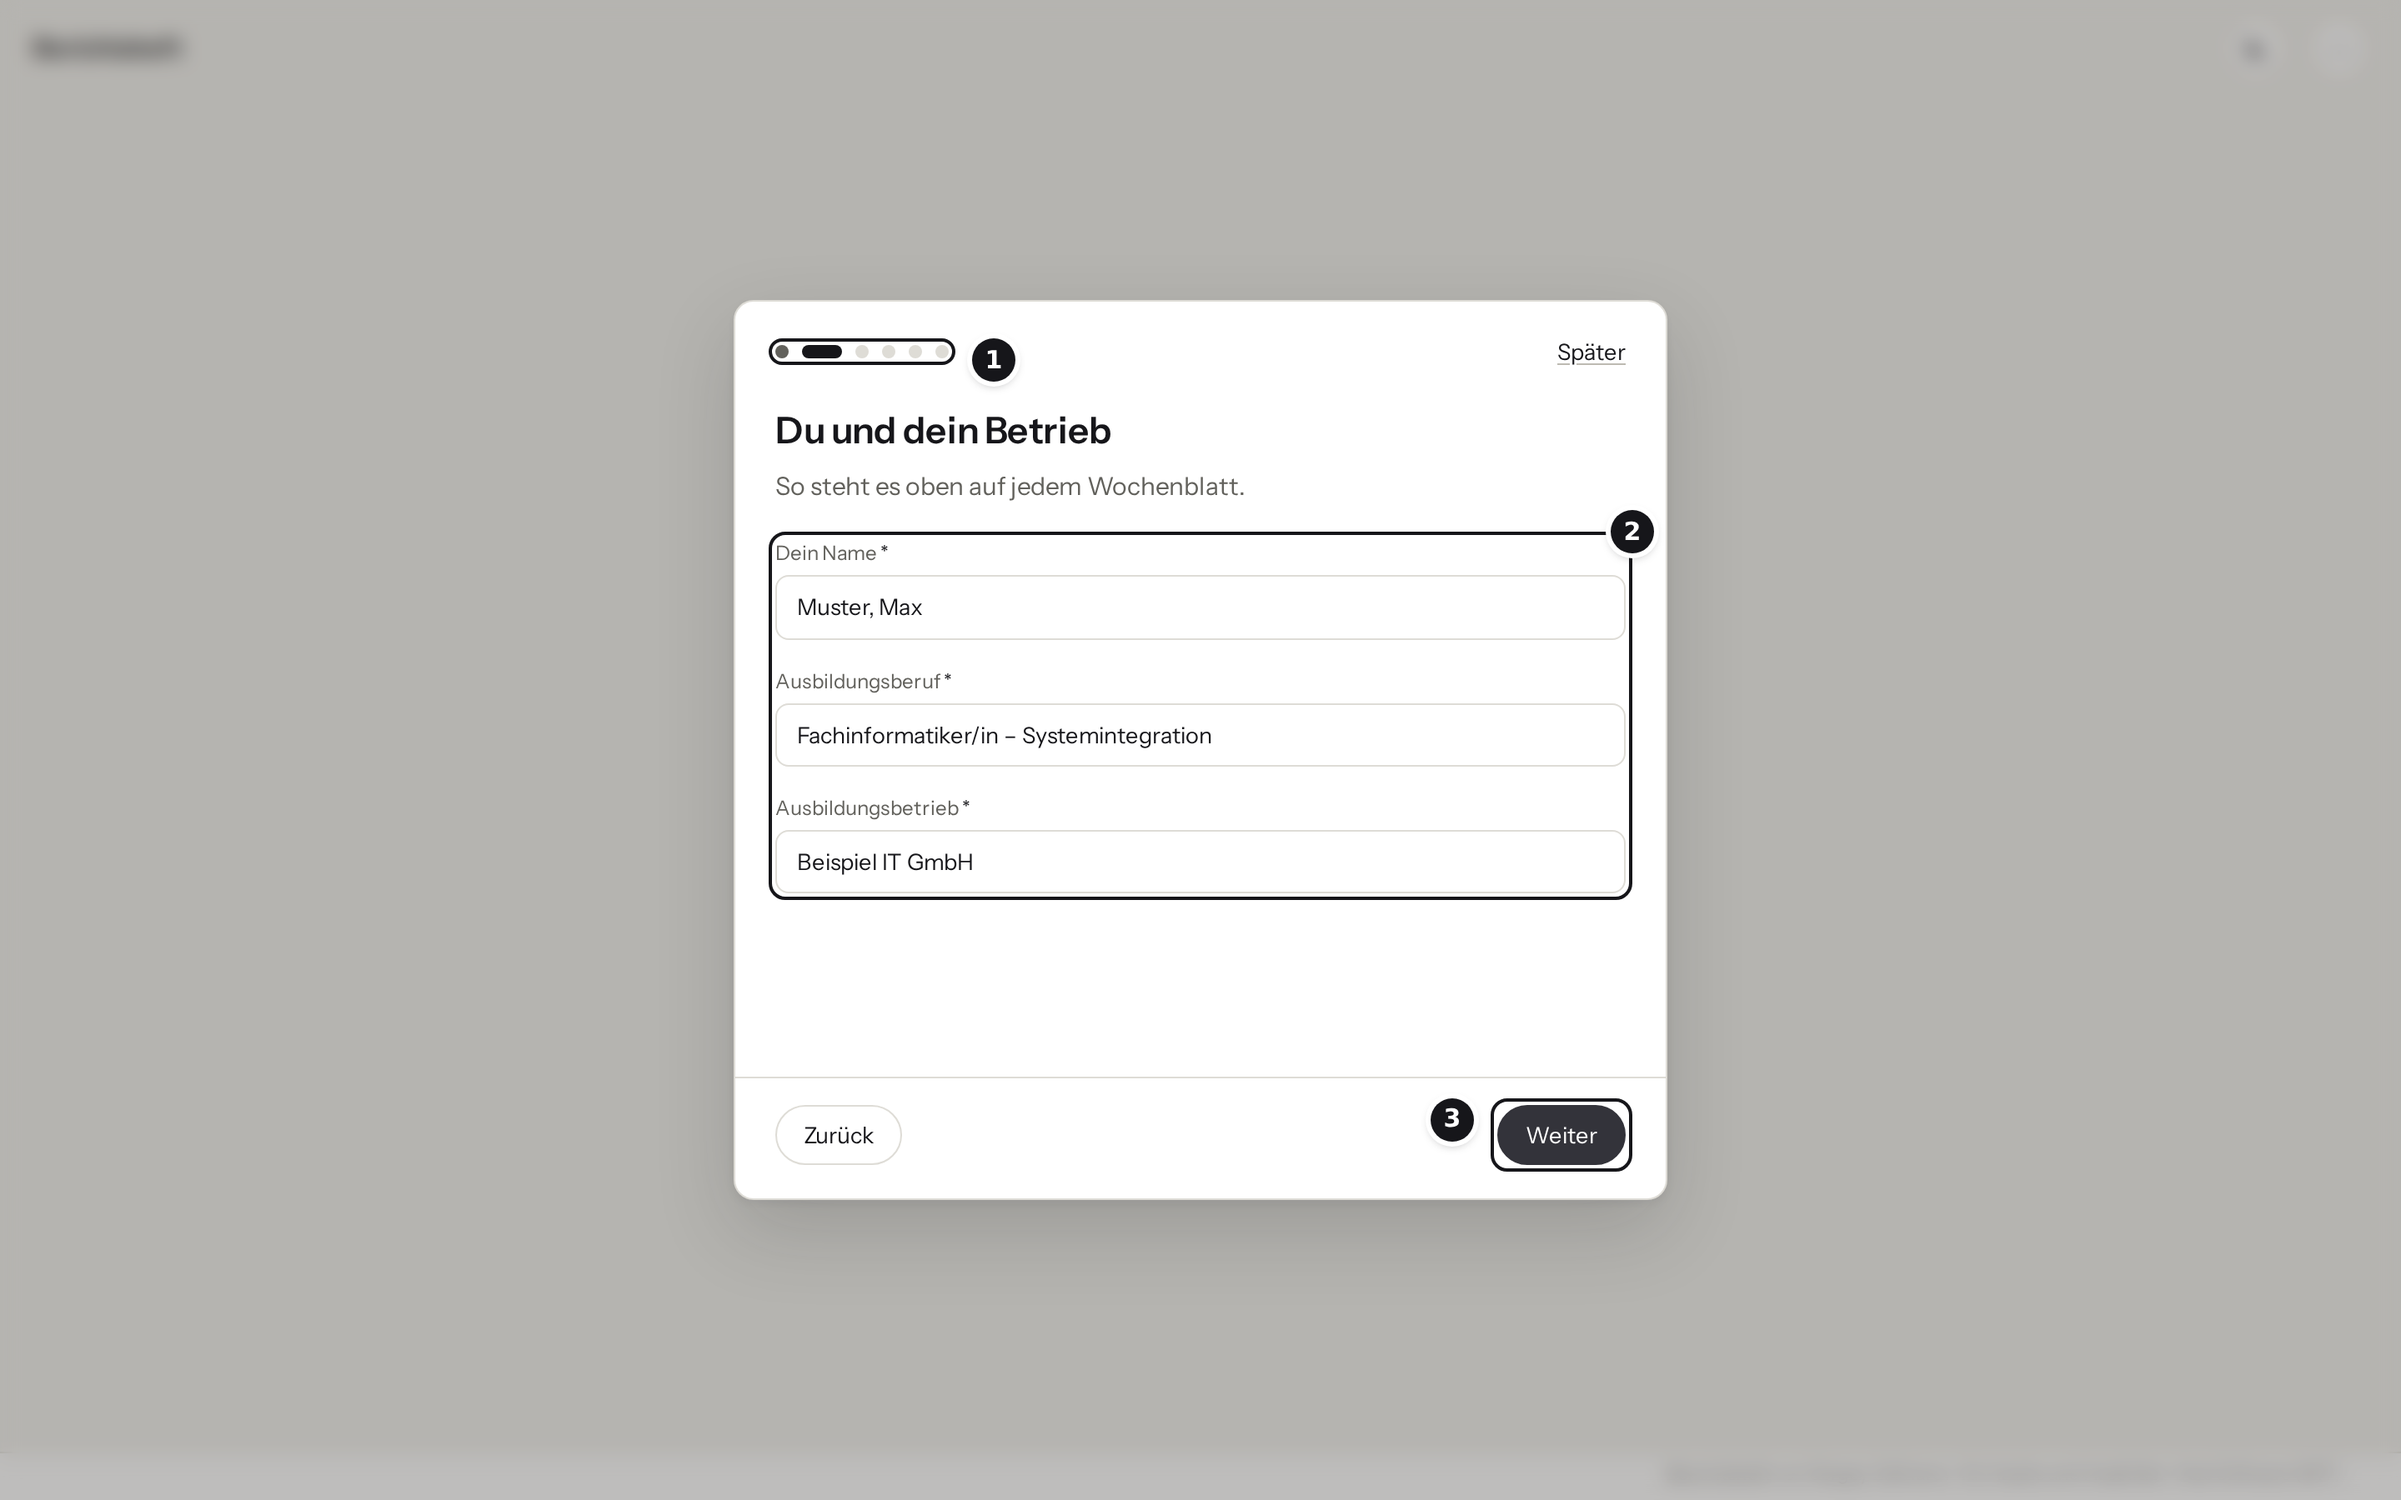
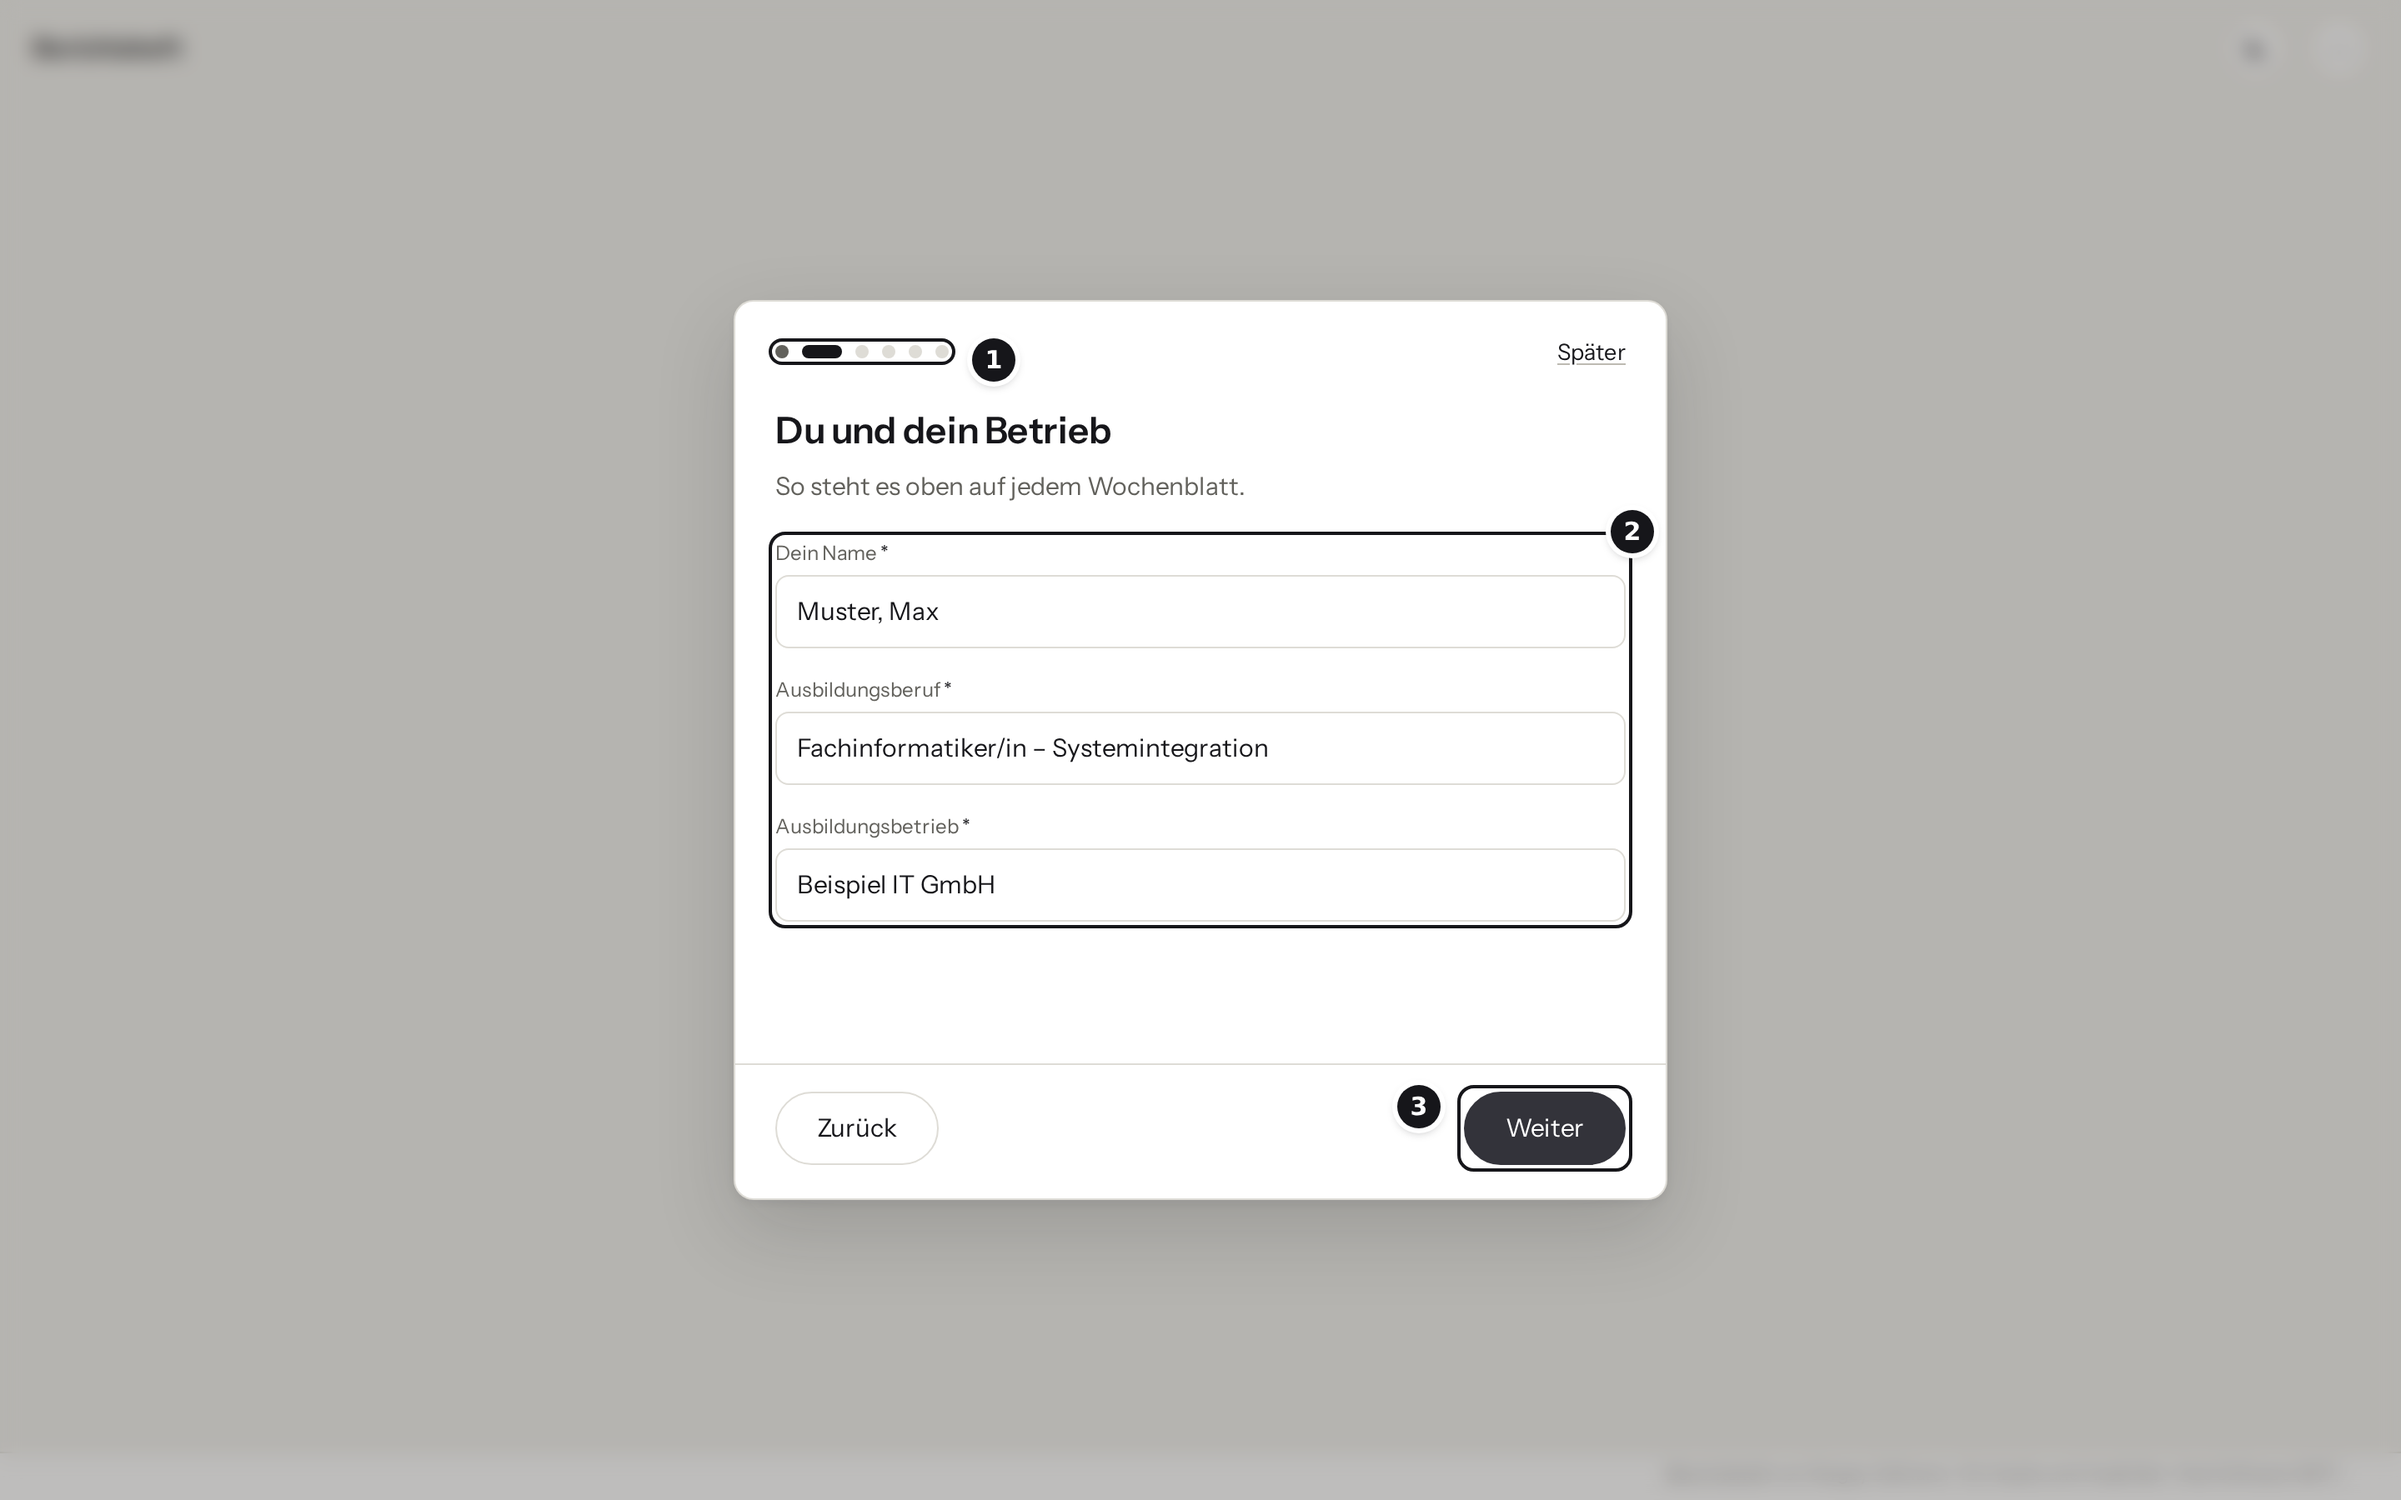
Fenster einheitlich: × oben rechts, Knöpfe unten rechts, größere Einrichtung
- Jedes Fenster hat im Kopf Titel links und × rechts. Die Textknöpfe „Schließen“ (Woche
  wählen, Übersicht, Gruppe verwalten, Kalender des Ausbilders) werden zum ×; Zuordnung,
  Rückfrage, Prüfung vor dem Export und der Kalender für Zeiträume bekommen eins dazu.
  Ein Handler in bedienung.js schließt jedes <dialog> wie Escape; was dabei geschehen
  muss, hängt wie bisher am close-Ereignis. Nur „Bitte anmelden“ bleibt ohne ×.
- Im Fuß stehen die Knöpfe rechts, die Hauptaktion ganz außen, ein Hinweis links davon.
- Dialogtitel 18 px, Felder in Fenstern einheitlich 40 px hoch (Datum und Auswahl
  brachten eigene Höhen mit).
- Einrichtung: Felder und Knöpfe 44 px und 15 px Schrift; Willkommen und Abschluss stehen
  mittig. Ohne Eingabefeld bekommt die Überschrift des Schritts den Fokus, statt „Später“
  mit Fokusrahmen.

Changed region(s): [[0.3125, 0.4044, 0.6875, 0.6222], [0.5625, 0.7156, 0.6875, 0.7778], [0.3438, 0.7156, 0.375, 0.7778]]

diff --git a/src/css/dialoge.css b/src/css/dialoge.css
@@ -137,7 +137,9 @@
 .blattleiste button.rot[aria-selected="true"] { background: var(--acht); color: #fff; }
 
 /* Schließen als Kreuz oben; „Fertig“ unten ist der eine Knopf, gespeichert wird beim Tippen. */
-.dlg-x { width: 32px; height: 32px; font-size: var(--schrift-titel); line-height: 1; }
+/* Das × steht in jedem Fenster oben rechts an derselben Stelle (bedienung.js schließt damit). */
+.dlg-x { width: 32px; height: 32px; margin-left: auto; font-size: var(--schrift-titel); line-height: 1; color: var(--schiefer); }
+.dlg-x:hover:not(:disabled) { color: var(--text); }
 .blattvorwort { margin: 0 0 var(--luft-4); font-size: var(--schrift-klein); line-height: 1.5; color: var(--schiefer); }
 /* Zwischenüberschrift in einem Reiter. */
 .felder .zwischentitel {
@@ -493,7 +495,11 @@
 }
 .er-punkte li.war { background: var(--schiefer); }
 .er-punkte li.jetzt { width: 24px; background: var(--text); }
-.er-leib { flex: 1 1 auto; min-height: 0; overflow-y: auto; padding: var(--luft-6) var(--luft-6) var(--luft-2); }
+.er-leib { flex: 1 1 auto; min-height: 0; overflow-y: auto; padding: var(--luft-6) var(--luft-6) var(--luft-2); display: flex; flex-direction: column; }
+/* Willkommen und Abschluss haben wenig Inhalt: mittig statt oben mit leerem Rest darunter. */
+.er-schritt[data-schritt="start"], .er-schritt[data-schritt="los"] { margin-block: auto; }
+/* Den Fokus bekommt die Überschrift nur für Vorleser (einrichtung.js), sichtbar ist er nicht. */
+.er-schritt h2:focus { outline: none; }
 .er-schritt h2 { margin: 0 0 var(--luft-2); font-size: var(--schrift-kopf); line-height: 1.25; font-weight: 600; letter-spacing: var(--sperrung-eng); }
 .er-marke {
   margin: 0 0 var(--luft-3); font-size: var(--schrift-fein); font-weight: 600; letter-spacing: var(--sperrung);
@@ -501,7 +507,14 @@
 }
 .er-text { margin: 0 0 var(--luft-5); font-size: var(--schrift-gross); line-height: 1.5; color: var(--schiefer); }
 .er-anders { margin: var(--luft-7) 0 0; font-size: var(--schrift-text); color: var(--schiefer); }
-.er-felder { gap: var(--luft-4) var(--luft-4); }
+.er-felder { gap: var(--luft-4); }
+/* Größer als in „Deine Daten“: Die Einrichtung ist das Erste, was man sieht, und hat je Schritt nur
+   wenige Felder. Knöpfe so hoch wie die Felder. */
+.er-felder input, .er-felder select { min-height: 44px; font-size: var(--schrift-gross); }
+.er-fuss .knopf {
+  display: inline-flex; align-items: center; min-height: 44px; padding: 0 var(--luft-6);
+  font-size: var(--schrift-gross);
+}
 .er-felder input.fehlt, .er-felder select.fehlt { border-color: var(--acht); box-shadow: 0 0 0 3px var(--acht-hell); }
 .er-jahr { margin: var(--luft-3) 0 0; min-height: 1.4em; font-size: var(--schrift-text); color: var(--gut); }
 .er-still { margin: var(--luft-4) 0 0; font-size: var(--schrift-klein); color: var(--schiefer); }

diff --git a/src/index.html b/src/index.html
@@ -100,7 +100,7 @@
 <div class="wpopover" id="dlg-wochen" hidden role="dialog" aria-labelledby="wtitel">
   <div class="dkopf">
     <h2 id="wtitel">Woche wählen</h2>
-    <button type="button" class="knopf" id="w-zu">Schließen</button>
+    <button type="button" class="rundknopf dlg-x" id="w-zu" aria-label="Schließen">×</button>
   </div>
   <div class="dkoerper">
     <div class="monatszeile">
@@ -445,6 +445,7 @@
 <dialog id="dlg-zuordnung">
   <div class="dkopf">
     <h2>Spalten zuordnen</h2>
+    <button type="button" class="rundknopf dlg-x" aria-label="Abbrechen">×</button>
   </div>
   <div class="dkoerper">
     <p class="pruef-vorwort" id="zu-vorwort"></p>
@@ -476,7 +477,6 @@
     <p class="pruef-vorwort" id="anmelden-text"></p>
   </div>
   <div class="dfuss">
-    <span></span>
     <a class="knopf voll" id="anmelden-los" href="anmeldung">Anmelden</a>
   </div>
 </dialog>
@@ -485,6 +485,7 @@
 <dialog id="dlg-frage">
   <div class="dkopf">
     <h2 id="frage-titel"></h2>
+    <button type="button" class="rundknopf dlg-x" aria-label="Abbrechen">×</button>
   </div>
   <div class="dkoerper">
     <p class="pruef-vorwort" id="frage-text"></p>
@@ -499,6 +500,7 @@
 <dialog id="dlg-pruefung">
   <div class="dkopf">
     <h2 id="pruef-titel">Vor dem Export</h2>
+    <button type="button" class="rundknopf dlg-x" aria-label="Zurück">×</button>
   </div>
   <div class="dkoerper">
     <p class="pruef-vorwort" id="pruef-vorwort"></p>
@@ -514,7 +516,7 @@
 <dialog id="dlg-uebersicht" aria-labelledby="ueb-titel">
   <div class="dkopf">
     <h2 id="ueb-titel">Übersicht</h2>
-    <button type="button" class="knopf" id="ueb-zu">Schließen</button>
+    <button type="button" class="rundknopf dlg-x" id="ueb-zu" aria-label="Schließen">×</button>
   </div>
   <div class="dkoerper" id="ueb-inhalt"></div>
 </dialog>
@@ -526,6 +528,7 @@
       <h2 id="zr-titel">Blockunterricht</h2>
       <p class="zr-unter">Ersten und letzten Tag antippen</p>
     </div>
+    <button type="button" class="rundknopf dlg-x" aria-label="Schließen">×</button>
   </div>
   <div class="dkoerper">
     <!-- Wo man steht: erster Tag, letzter Tag. Der aktive Schritt ist umrandet. -->
@@ -554,11 +557,11 @@
 </dialog>
 
 <dialog id="dlg-gruppe">
-  <div class="dkopf"><h2>Gruppe verwalten</h2></div>
-  <div class="dkoerper" id="dlg-gruppe-inhalt"></div>
-  <div class="dfuss">
-    <button type="button" class="knopf" id="gruppe-zu">Schließen</button>
+  <div class="dkopf">
+    <h2>Gruppe verwalten</h2>
+    <button type="button" class="rundknopf dlg-x" id="gruppe-zu" aria-label="Schließen">×</button>
   </div>
+  <div class="dkoerper" id="dlg-gruppe-inhalt"></div>
 </dialog>
 
 <!-- #druck nimmt die Blätter für den Druckdialog auf, #messung misst sie vorher aus. -->

diff --git a/src/css/basis.css b/src/css/basis.css
@@ -209,14 +209,15 @@ dialog::backdrop {
   -webkit-backdrop-filter: blur(6px); backdrop-filter: blur(6px);
 }
 .dkopf {
-  display: flex; align-items: center; justify-content: space-between;
+  display: flex; align-items: center; justify-content: space-between; gap: var(--luft-3);
   padding: var(--luft-4) var(--luft-5); border-bottom: 1px solid var(--linie);
 }
-.dkopf h2 { margin: 0; font-size: var(--schrift-gross); font-weight: 600; }
+.dkopf h2 { margin: 0; font-size: var(--schrift-titel); font-weight: 600; letter-spacing: var(--sperrung-eng); }
 .dkoerper { padding: var(--luft-4) var(--luft-5); }
+/* Knöpfe rechts, die Hauptaktion ganz außen; ein Hinweis (flex: 1) steht links davon. */
 .dfuss {
-  padding: 0 var(--luft-5) var(--luft-5); display: flex; align-items: center; gap: var(--luft-4);
-  justify-content: space-between;
+  padding: 0 var(--luft-5) var(--luft-5); display: flex; align-items: center; gap: var(--luft-2);
+  justify-content: flex-end;
 }
 
 /* ---------- Formularfelder im Dialog ---------- */
@@ -235,7 +236,9 @@ dialog::backdrop {
 }
 .felder textarea { resize: vertical; min-height: 92px; line-height: 1.5; }
 .felder small { display: block; margin-top: var(--luft-1); font-size: var(--schrift-klein); color: var(--schiefer); }
-.felder output { display: flex; align-items: center; min-height: 36px; background: var(--band); }
+/* Alle Felder gleich hoch; Datumsfelder und Auswahllisten brachten sonst ihre eigene Höhe mit. */
+.felder input, .felder select { min-height: 40px; }
+.felder output { display: flex; align-items: center; min-height: 40px; background: var(--band); }
 .felder output.leer { color: var(--schiefer); }
 .felder .weit { grid-column: 1 / -1; }
 

diff --git a/src/js/ansicht/einrichtung.js b/src/js/ansicht/einrichtung.js
@@ -68,10 +68,13 @@ function erZeigen(i) {
   $("er-weiter").textContent = i === 0 ? "Los geht's" : "Weiter";
   $("er-spaeter").hidden = name === "los";
   erFehlt("");
-  // Am Handy nicht: Der Fokus holte bei jedem Schritt die Tastatur hoch.
+  // Das erste Feld, am Handy nicht: Der Fokus holte bei jedem Schritt die Tastatur hoch. Ohne Feld
+  // die Überschrift, sonst blieb der Fokus auf „Später“ stehen, das der Dialog beim Öffnen wählt.
   var amHandy = window.matchMedia && window.matchMedia("(pointer: coarse)").matches;
-  var erstes = erDlg.querySelector('.er-schritt[data-schritt="' + name + '"] input:not([type=checkbox])');
+  var schritt = erDlg.querySelector('.er-schritt[data-schritt="' + name + '"]');
+  var erstes = schritt.querySelector("input:not([type=checkbox])");
   if (erstes && !amHandy) erstes.focus();
+  else if (!erstes) { var titel = schritt.querySelector("h2"); titel.tabIndex = -1; titel.focus({ preventScroll: true }); }
 }
 
 function erFehlt(text) {

diff --git a/src/js/konto/ausbilder.js b/src/js/konto/ausbilder.js
@@ -202,7 +202,7 @@ function zeichneHeft() {
     "</div>" +
     '<div class="wpopover" id="a-wochen" hidden role="dialog" aria-label="Woche wählen">' +
       '<div class="dkopf"><h2>Woche wählen</h2>' +
-        '<button type="button" class="knopf" id="a-wochen-zu">Schließen</button></div>' +
+        '<button type="button" class="rundknopf dlg-x" id="a-wochen-zu" aria-label="Schließen">×</button></div>' +
       '<div class="dkoerper">' +
         '<div class="monatszeile">' +
           '<button type="button" class="rundknopf" id="a-monat-zurueck" aria-label="Voriger Monat">‹</button>' +

diff --git a/src/js/kern/bedienung.js b/src/js/kern/bedienung.js
@@ -24,6 +24,12 @@ MENUES.forEach(function (m) {
   $(m[1]).addEventListener("click", function () { menueSchliessen(); });
 });
 
+/* Das × im Kopf eines Fensters schließt es wie Escape. Was ein Fenster dabei tun muss (Antwort
+   „nein“, Kalender übernehmen), hängt an seinem close-Ereignis. */
+document.querySelectorAll("dialog .dlg-x").forEach(function (x) {
+  x.addEventListener("click", function () { x.closest("dialog").close(); });
+});
+
 // Ein Klick daneben schließt, was offen ist.
 document.addEventListener("click", function () {
   menueSchliessen();

diff --git a/docs/ENTWICKLUNG.md b/docs/ENTWICKLUNG.md
@@ -136,7 +136,11 @@ also dort keine Klassen aus dem Blatt wie `.tagkopf`, `.kasten` oder `.tagestabe
 | Schriftstärke | 400 und 600 |
 
 Was man klickt, ist rund (Textknöpfe als Pille, Symbolknöpfe als Kreis); was man ausfüllt oder
-liest, hat Ecken. Ein Wert neben den Stufen braucht einen Kommentar, warum. `blatt.css` rechnet in
+liest, hat Ecken. **Fenster** sind gleich gebaut: im Kopf der Titel links und ein × (`.dlg-x`)
+rechts, im Fuß die Knöpfe rechts mit der Hauptaktion ganz außen, ein Hinweis links davon. Das ×
+schließt jedes `<dialog>` wie Escape (`bedienung.js`); was dabei geschehen muss, hängt am
+`close`-Ereignis des Fensters. Ohne × bleibt nur „Bitte anmelden“. Felder in Fenstern sind 40 px
+hoch, in der Einrichtung 44 px. Ein Wert neben den Stufen braucht einen Kommentar, warum. `blatt.css` rechnet in
 pt und mm des Vordrucks und bleibt davon ausgenommen.
 
 ## Datenmodell

diff --git a/CHANGELOG.md b/CHANGELOG.md
@@ -13,6 +13,10 @@ Werkzeug arbeitet. Was im Browser gespeichert ist, bleibt ladbar.
 - **Einheitliche Maße:** Schrift in sechs Stufen statt rund zwanzig Größen, Abstände im
   4-px-Raster, drei Eckenradien. Alle Textknöpfe sind Pillen in Textgröße, Symbolknöpfe Kreise.
   Die Oberfläche wirkt dadurch ruhiger; am Handy ist der Text einen halben Punkt größer.
+- **Fenster einheitlich:** Jedes Fenster schließt mit × oben rechts (oder Escape), auch Wochenwahl,
+  Übersicht, Kalender, Zuordnung und Rückfragen; die Knöpfe stehen unten rechts. Alle Felder sind
+  gleich hoch, auch Datum und Auswahl. Die Einrichtung hat größere Felder und Knöpfe, Willkommen
+  und Abschluss stehen mittig, und beim Öffnen hat „Später“ keinen Fokusrahmen mehr.
 
 ## [0.2.0] – 2026-09-29
 
